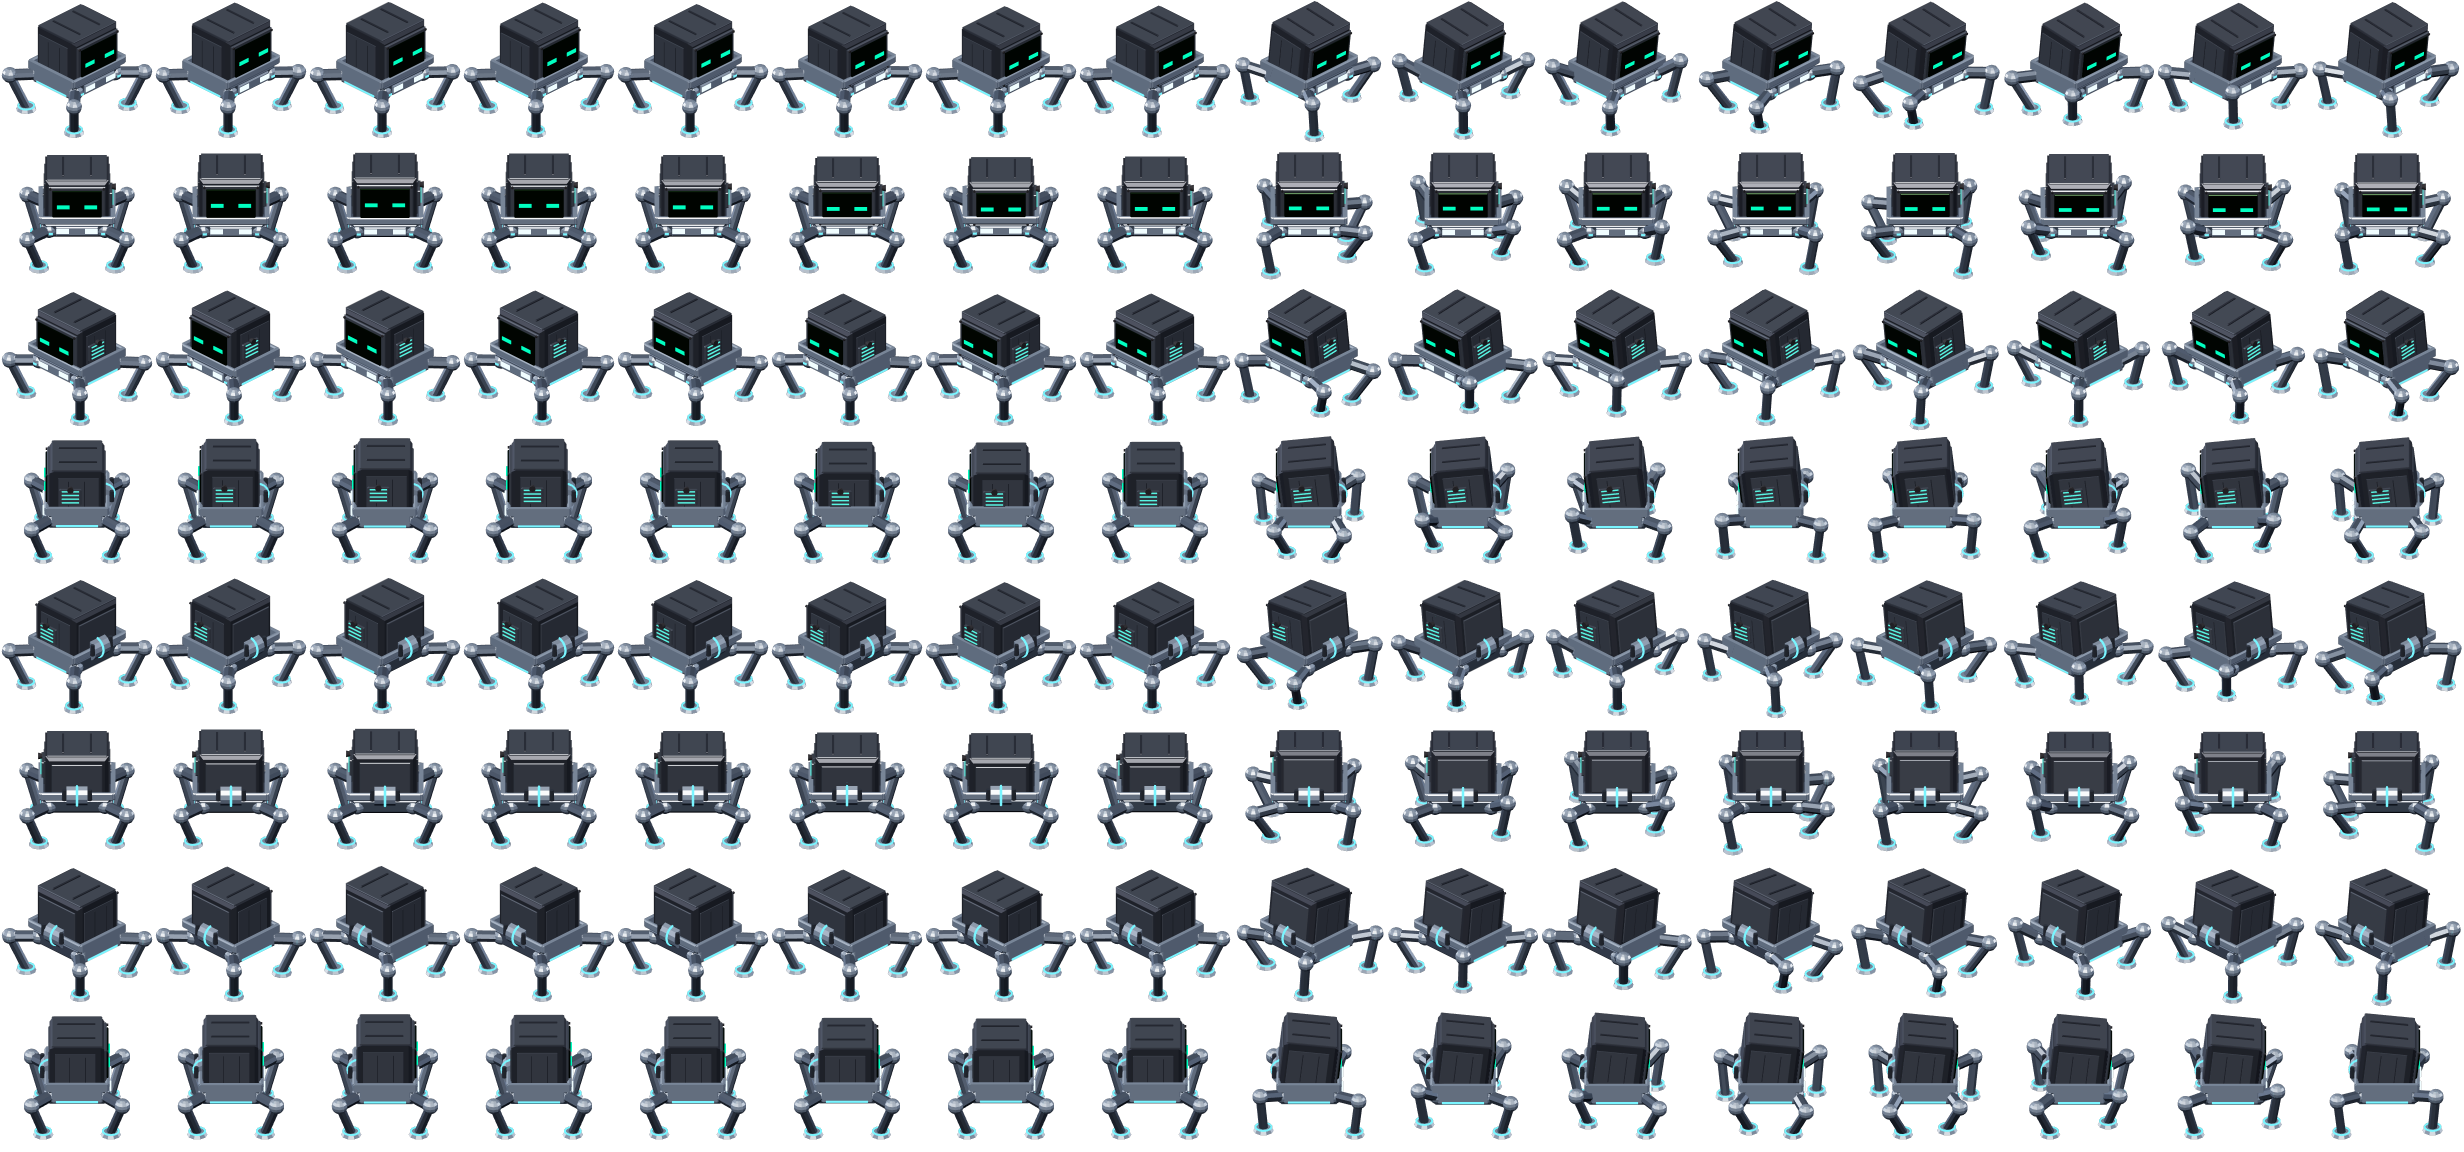
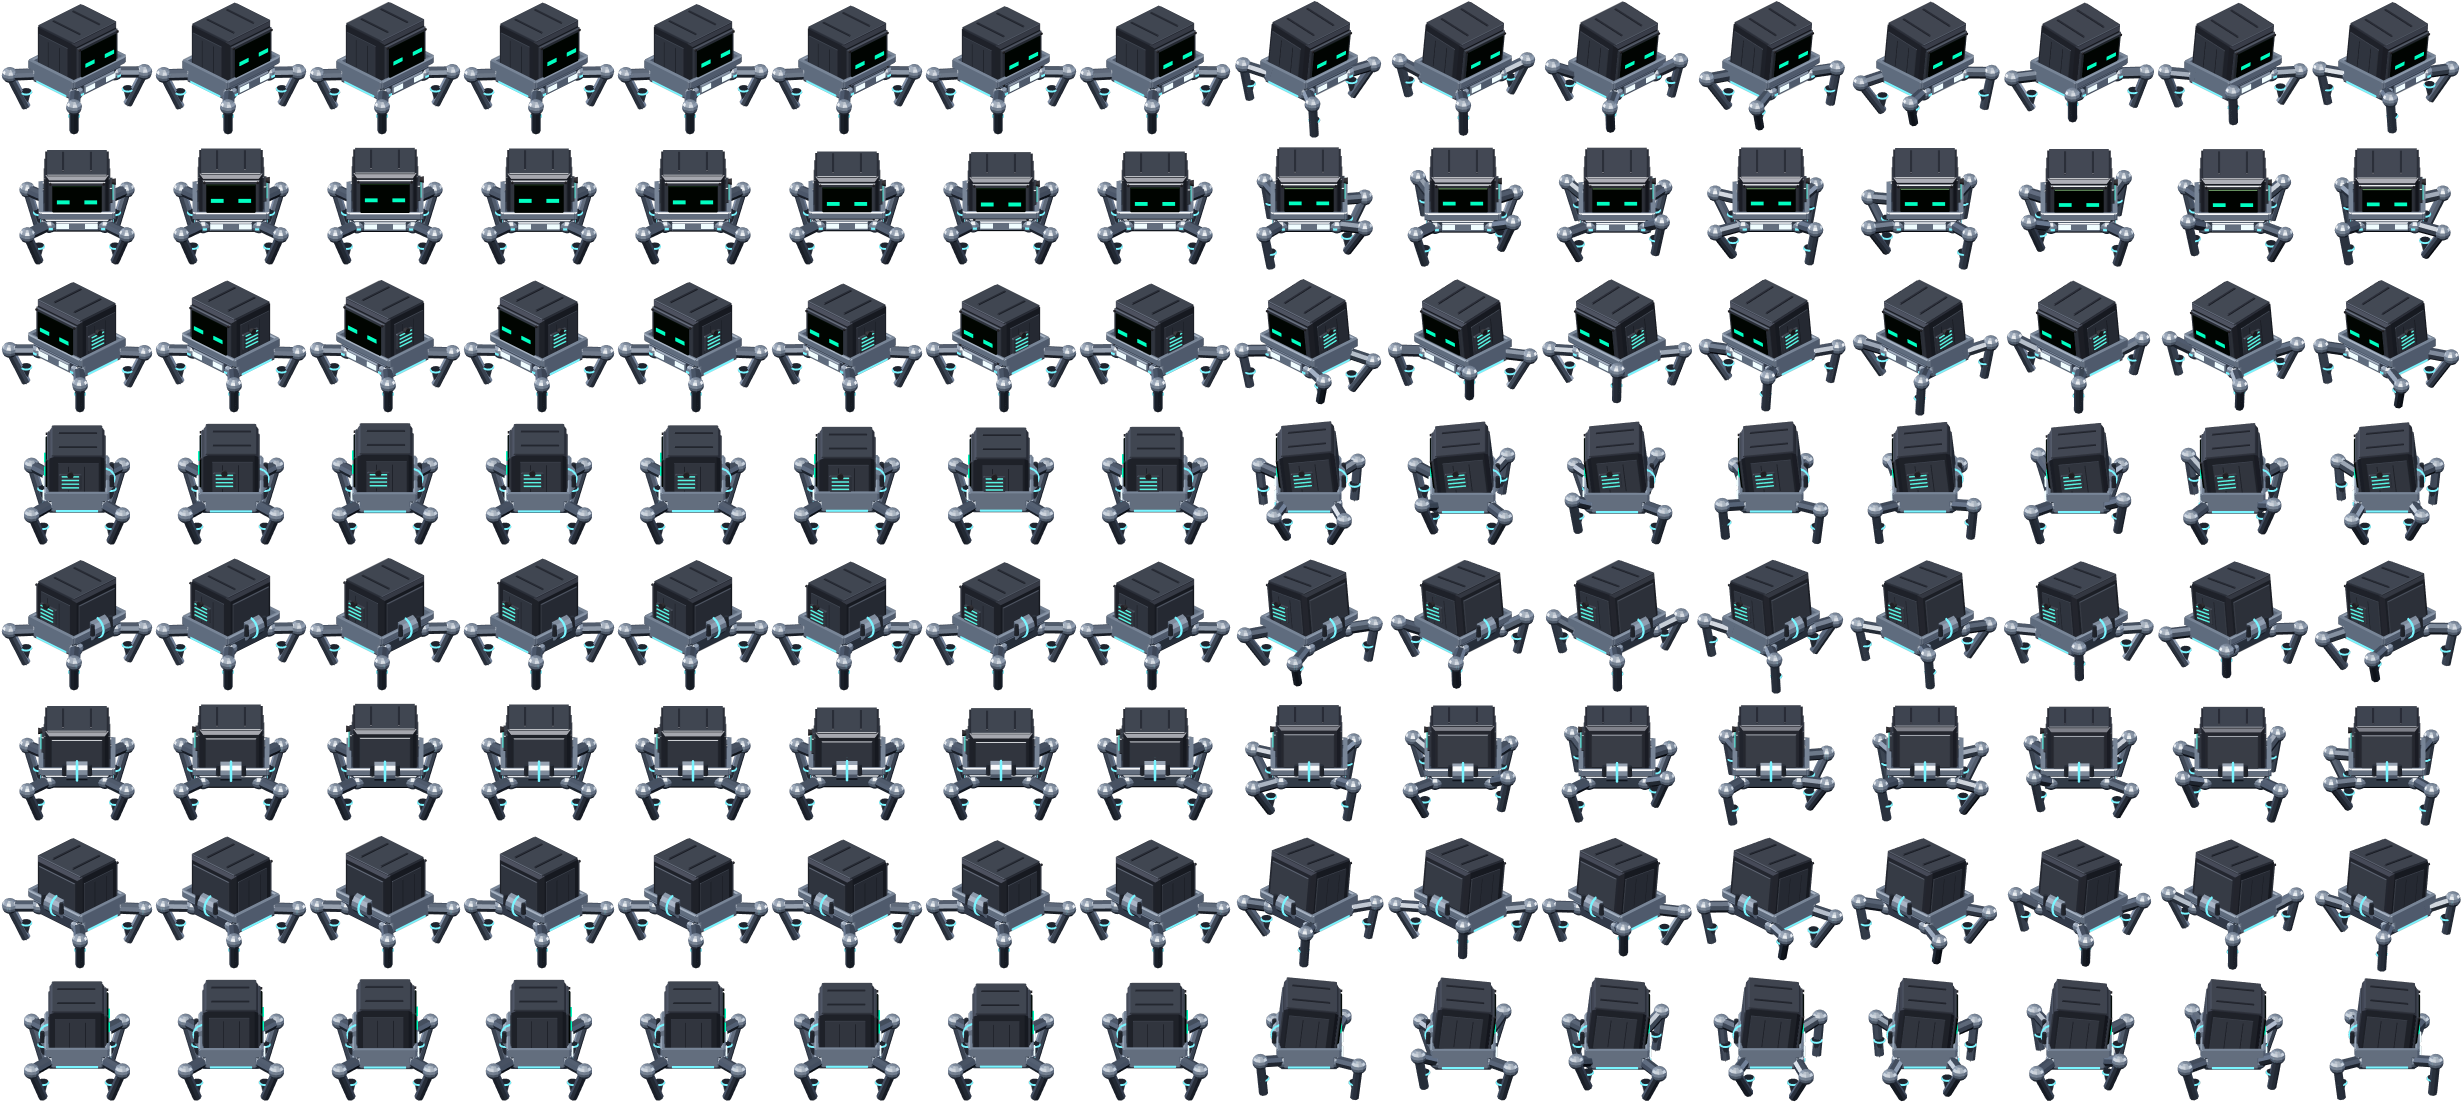
Spider mech: pointed steel tips on the four feet
Claude-Session: https://claude.ai/code/session_0115DZYYhipQqSk6LHvQcEfz

diff --git a/design/evolutions/forms30.js b/design/evolutions/forms30.js
@@ -109,7 +109,7 @@ function _mech() {
   // four legs: a hip on each corner, a thigh up and out to a knee, a shin down to a foot pad
   const legs = [];
   for (const [fx, fz] of [[1, 1], [-1, 1], [1, -1], [-1, -1]]) {
-    const th = _limb(g, 0.14, _gHull, 8), sn = _limb(g, 0.11, _gHull, 8), kn = new T.Mesh(new T.SphereGeometry(0.19, 10, 8), _gHullLt), ring = torus(0.15, 0.026, _gCyan, 14), ft = cyl(0.19, 0.24, 0.09, _gHullLt, 10), fr = torus(0.19, 0.024, _gCyan, 14), hp = new T.Mesh(new T.SphereGeometry(0.2, 10, 8), _gHullLt);
+    const th = _limb(g, 0.14, _gHull, 8), sn = _limb(g, 0.11, _gHull, 8), kn = new T.Mesh(new T.SphereGeometry(0.19, 10, 8), _gHullLt), ring = torus(0.15, 0.026, _gCyan, 14), ft = new T.Mesh(new T.ConeGeometry(0.12, 0.52, 10), M.steel), fr = torus(0.12, 0.024, _gCyan, 14), hp = new T.Mesh(new T.SphereGeometry(0.2, 10, 8), _gHullLt);
     g.add(kn); g.add(ring); g.add(ft); g.add(fr); g.add(hp);
     legs.push({ fx, fz, th, sn, kn, ring, ft, fr, hp });
   }
@@ -121,7 +121,7 @@ function _mech() {
       const gp = ph + ((L.fx * L.fz) > 0 ? 0 : PI), s = Math.sin(gp), lift = walk ? Math.max(0, s) * 0.3 : 0, dz = walk ? -Math.cos(gp) * 0.3 : 0;
       const hip = V(L.fx * 0.66, 0.96 - sink, L.fz * 0.6), foot = V(L.fx * 0.9, 0.08 + lift, L.fz * 0.8 + dz), knee = _ik(hip, foot, 0.7, 0.95, V(L.fx * 0.4, 1.3, L.fz * 0.4).normalize());
       L.th.set(hip, knee); L.sn.set(knee, foot); L.kn.position.copy(knee); L.ring.position.copy(knee); L.ring.lookAt(knee.clone().add(V(L.fx, 0, 0)));
-      L.ft.position.set(foot.x, foot.y - 0.02, foot.z); L.fr.position.set(foot.x, foot.y + 0.03, foot.z); L.fr.rotation.x = PI / 2; L.hp.position.copy(hip);
+      L.ft.position.set(foot.x, foot.y + 0.18, foot.z); L.ft.rotation.x = PI; L.fr.position.set(foot.x, foot.y + 0.4, foot.z); L.fr.rotation.x = PI / 2; L.hp.position.copy(hip);
     }
   } };
 }

diff --git a/js/hdsprites.js b/js/hdsprites.js
@@ -13,7 +13,7 @@ const HD_CELL = 144, HD_ANCHOR = [72, 114.18], HD_PX_PER_UNIT = 144 / 3.4;
 const HD_BOX = { player: { ox: 26, oy: 1, cw: 92, ch: 105 }, egg: { ox: 41, oy: 43, cw: 62, ch: 85 },
     // the player with its class gear (design/evolutions/forms30.js): baked in 186 px cells over 4.4 units (the same pixels per unit), so each has its own anchor (ax, ay) in the original cell
     player_gun: { ox: 17, oy: 23, cw: 152, ch: 127, ax: 93, ay: 135.1 }, player_gun_aim: { ox: 4, oy: 23, cw: 178, ch: 103, ax: 93, ay: 135.1 },
-    player_mech: { ox: 16, oy: 27, cw: 154, ch: 144, ax: 93, ay: 135.1 }, player_coat: { ox: 36, oy: 20, cw: 114, ch: 115, ax: 93, ay: 135.1 } };
+    player_mech: { ox: 16, oy: 27, cw: 154, ch: 139, ax: 93, ay: 135.1 }, player_coat: { ox: 36, oy: 20, cw: 114, ch: 115, ax: 93, ay: 135.1 } };
 // Draw one frame (col, row) of a sheet with the figure's anchor at (ax, ay) on screen, at scale s.
 function _hdBlit(g, img, box, col, row, ax, ay, s) {
     const an = box.ax === undefined ? HD_ANCHOR : [box.ax, box.ay];
